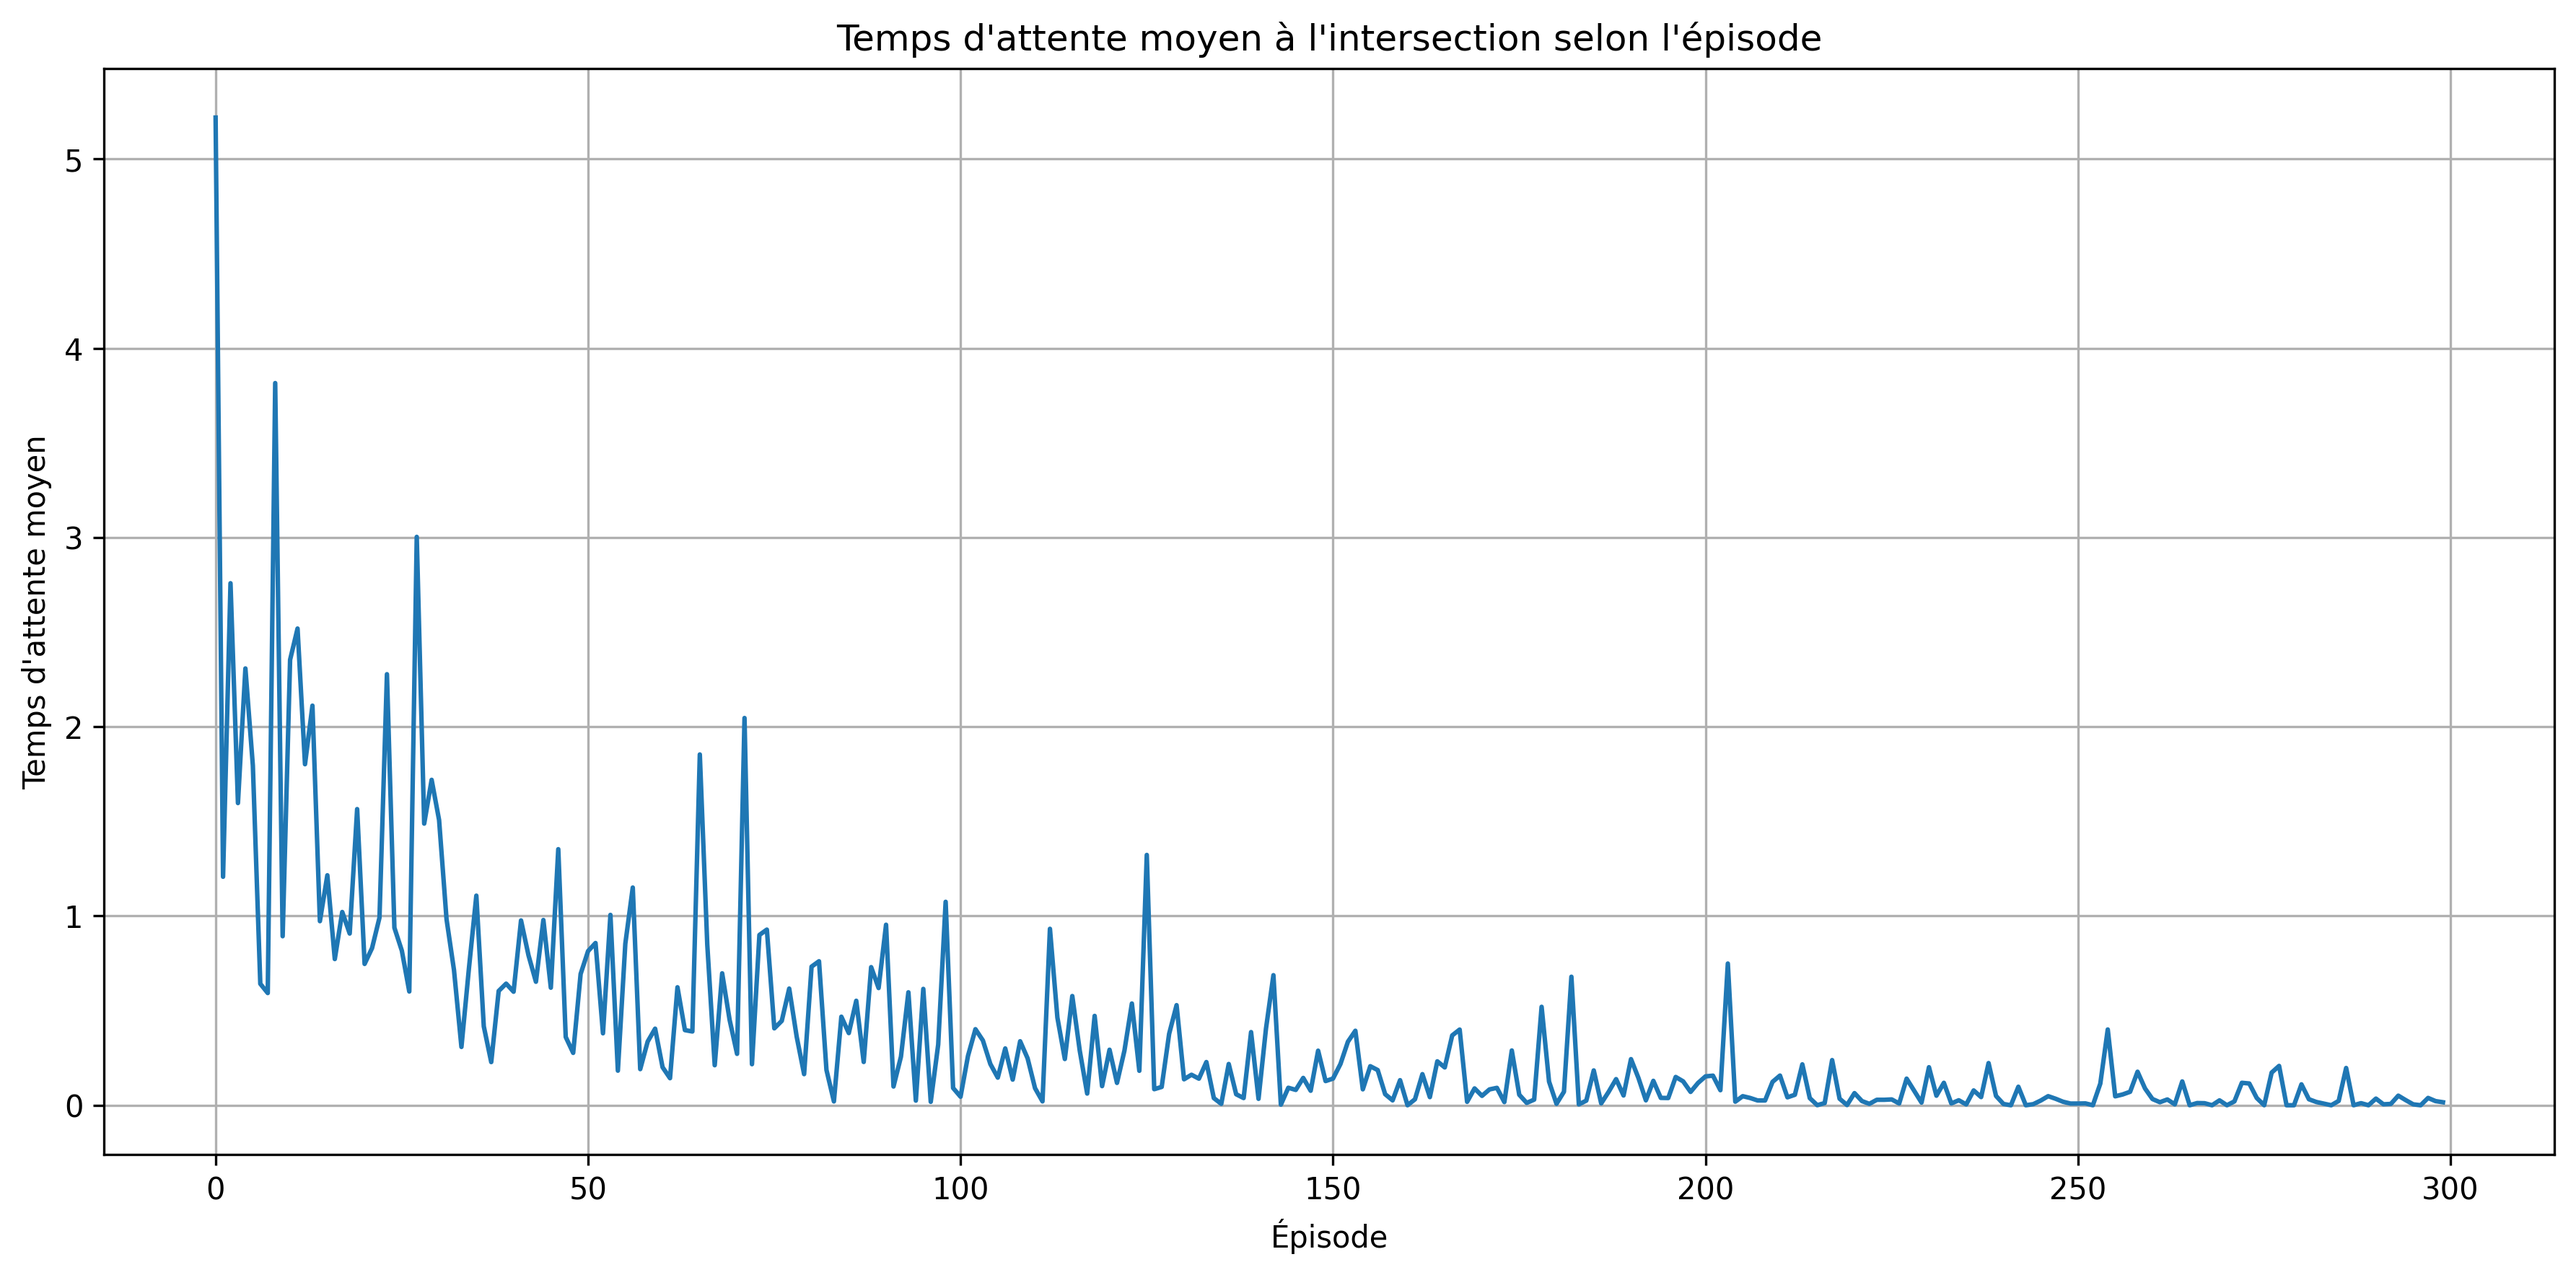
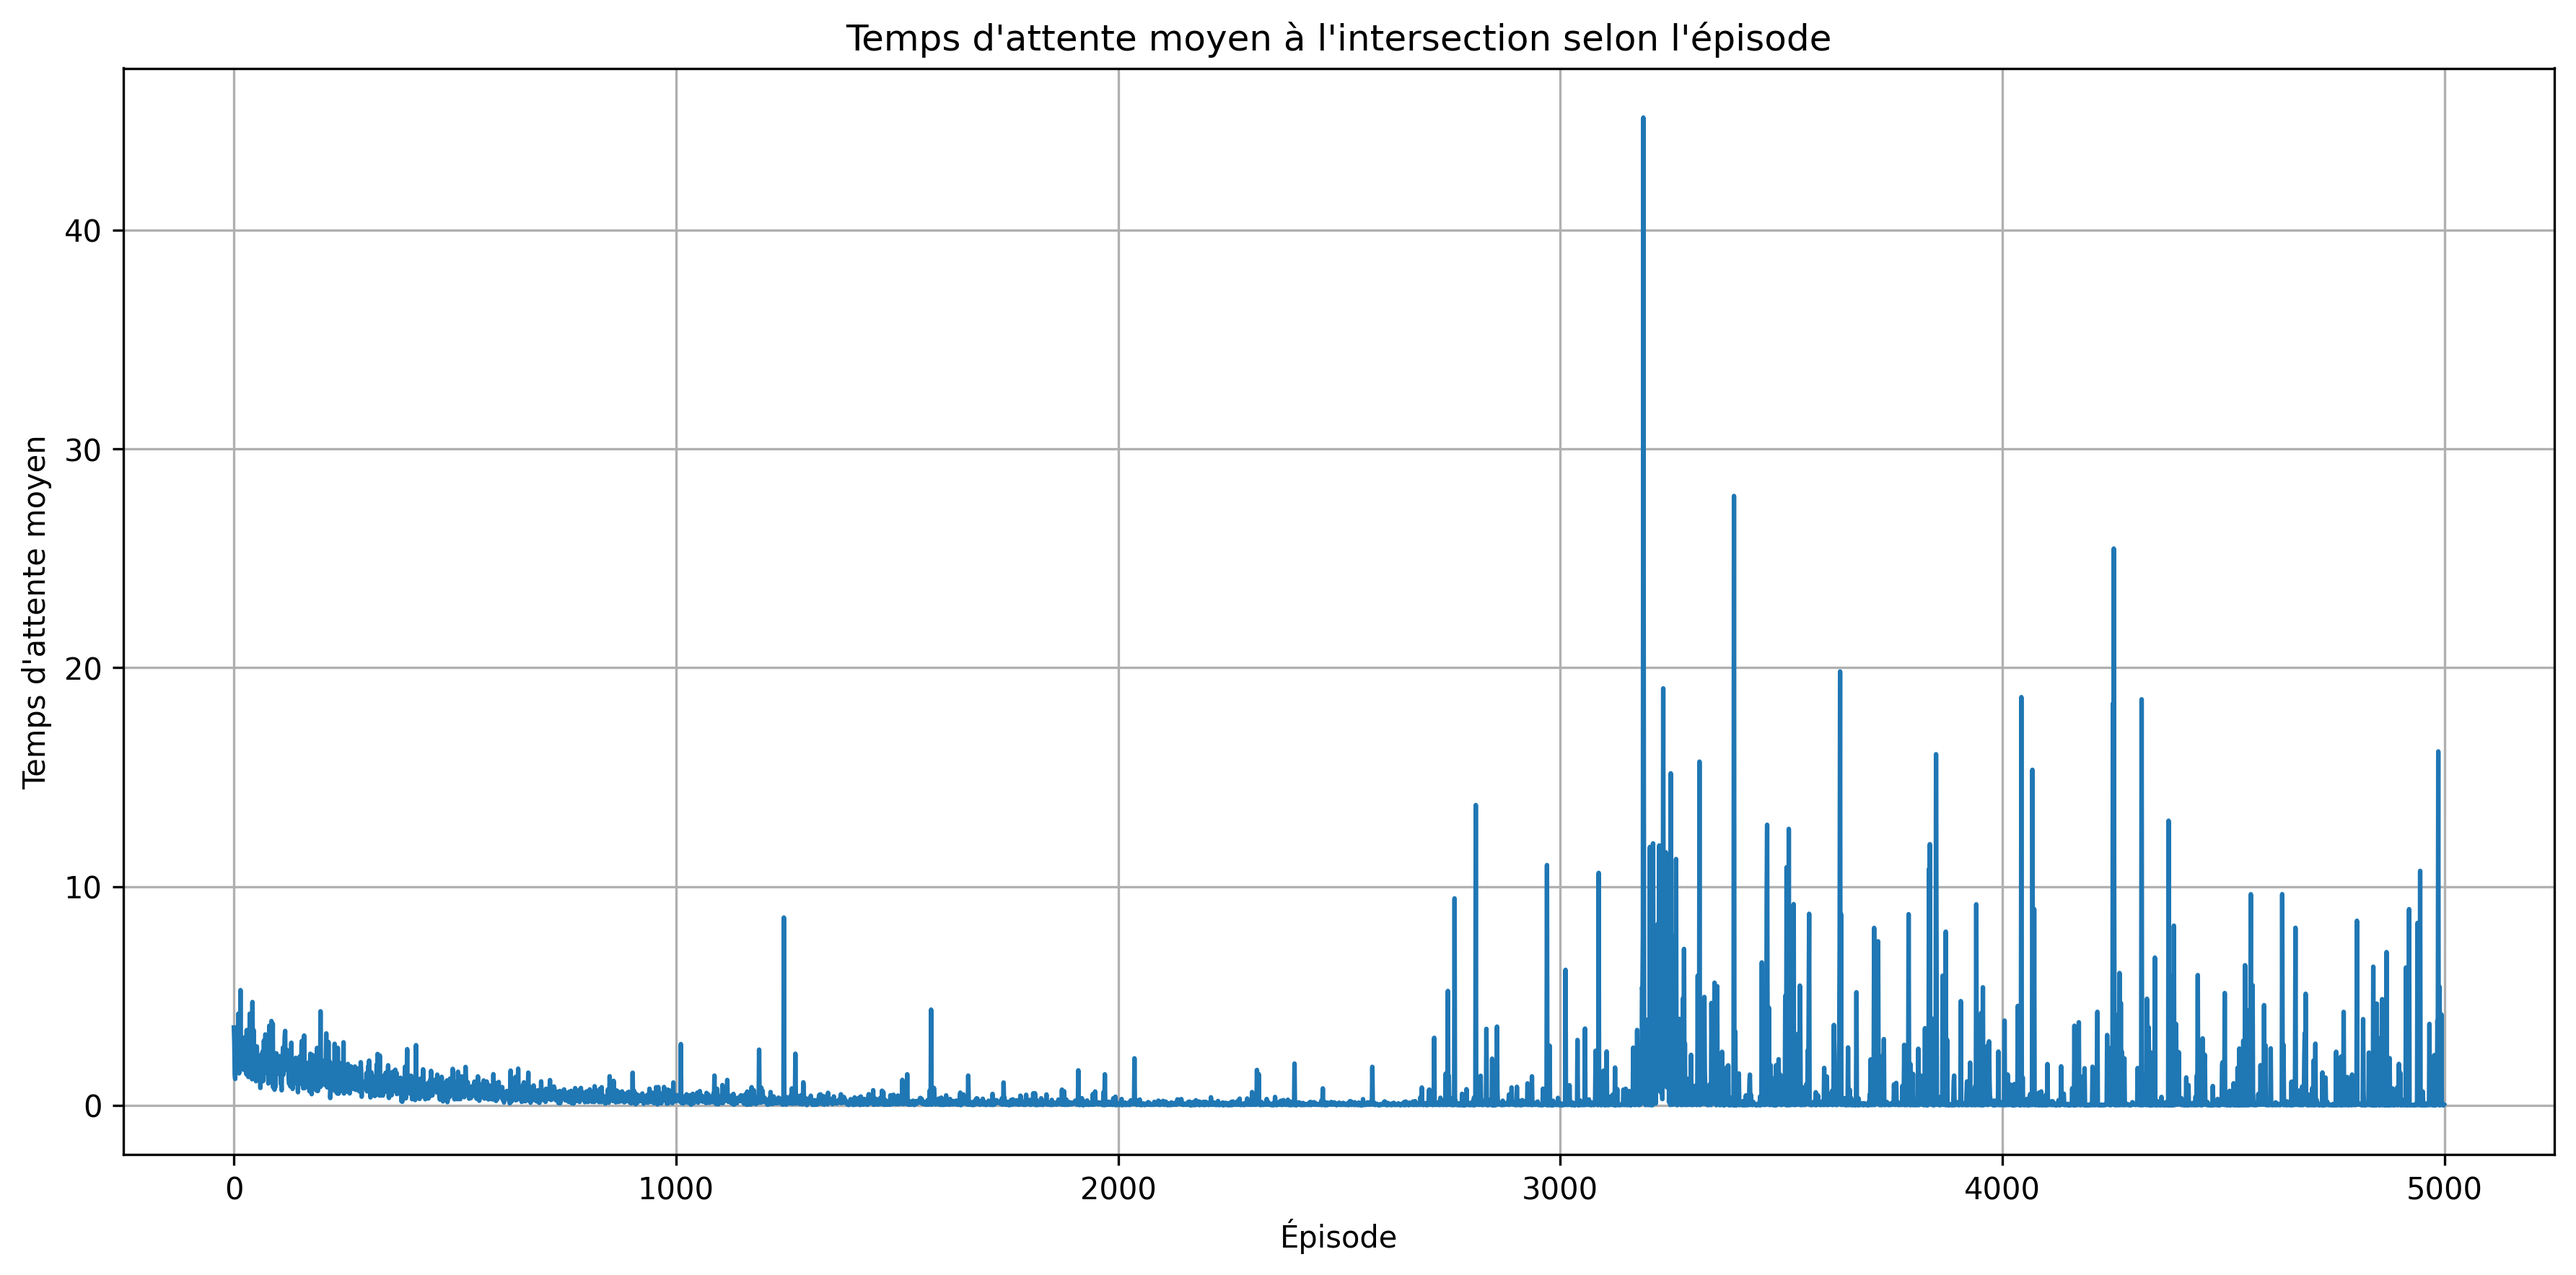
jsp ce que j'ai fait, ca marche pas

diff --git a/simauto/intersection.py b/simauto/intersection.py
@@ -37,12 +37,7 @@ class Sprite:
 def draw_background(screen, background):
     screen.blit(background, (0,0))
 
-def get_epsilon(episode, total_episodes, eps_start=0.99, eps_end=0.01, stable_ratio=0.1):
-    decay_episodes = int(total_episodes * (1-stable_ratio))
-    if episode >= decay_episodes:
-        return eps_end
-    decay_rate = np.log(eps_end/eps_start) / decay_episodes
-    return eps_start * np.exp(decay_rate * episode)
+
 
 def draw_traffic_light(screen, simulation, direction: Direction, from_opposite_side = False):
     screen_view = Viewport(screen.get_width(), screen.get_height())
@@ -93,7 +88,7 @@ class IntersectionEnv(gym.Env):
 
         self.mean_waits = []
 
-        self.episode_end_threshold = 1000 # in numbers of cars passed
+        self.episode_end_threshold = 250 # in numbers of cars passed
 
         self.action_space = spaces.Discrete(6)
         self.observation_space = gym.spaces.Dict({
@@ -246,12 +241,12 @@ class IntersectionEnv(gym.Env):
         wait_penalty = -0.015 * total_wait
 
         std_dev = np.std(wait_times) if len(wait_times) > 1 else 0.0
-        fairness_penalty = -0.15 * std_dev
-        car_count_penalty = -0.35 * np.log(len(self.sim.cars)+1)
+        fairness_penalty = -0.1 * std_dev
+        car_count_penalty = -0.3 * np.log(len(self.sim.cars)+1)
 
 
         max_wait = max(wait_times) if wait_times else 0.0
-        emergency_penalty = -0.6 * max(0.0, max_wait - 300.0) #**2 #si ca marche encore pas
+        emergency_penalty = -0.55 * max(0.0, max_wait - 300.0) #**2 #si ca marche encore pas
 
         reward = (
             wait_penalty

diff --git a/simauto/test.py b/simauto/test.py
@@ -17,15 +17,15 @@ agent = DQNAgent(input_dim, output_dim)
 #Hyperparameters
 BATCH_SIZE = 32
 GAMMA = 0.97
-EPSILON_DECAY = 0.9925
-MIN_EPSILON = 0.01
+EPSILON_DECAY = 0.9987
+MIN_EPSILON = 0.005
 TARGET_UPDATE_FREQ = 1000
 episode_rewards = []
 episode_epsilons = []
 episode_mean_wait = []
 episode_emissions = []
 total_steps = 0
-n_episode = 300
+n_episode = 5000
 for episode in range(n_episode):
     obs, _ = env.reset()
     state = state_tensor(obs)
